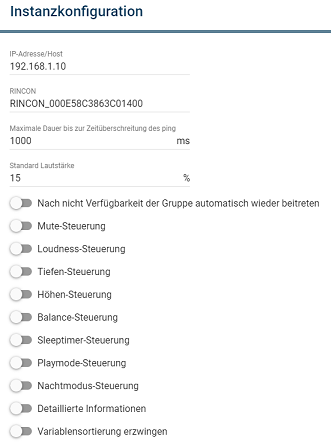
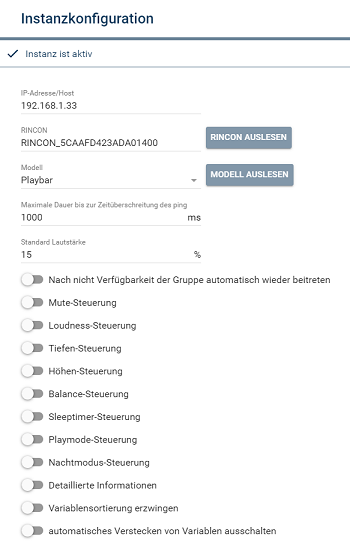
Doku

Changed region(s): [[0.0302, 0.4382, 0.9668, 0.9933], [0.0, 0.0, 1.0, 0.409], [0.5438, 0.3798, 0.574, 0.409]]

diff --git a/README.md b/README.md
@@ -136,37 +136,51 @@ Falls man in Sonos unter "TuneIn Radio" -> "Meine Radiosender" favoriten gepfleg
 Dies ist der Hostname oder die IP-Adresse des Players. Sofern die Insanz aus der Discovery Instanz angelegt wurde, ist dieser Wert automatisch gefüllt.
 2. __RINCON__  
 RINCON ist die eindeutige Bezeichnung eines Lautsprechers. Sofern die Insanz aus der Discovery Instanz angelegt wurde, ist dieser Wert automatisch gefüllt.  
-Wenn die Instanz manuell angelegt wurde und die RINCON nicht bekannt ist, kann der Knopf "RINCON auslesen" (wird eingeblendet, wenn dieses Feld leer ist) verwendet werden, um die RINCON zu ermittelt. Hierfür muss allerdings "IP-Adresse/Host" gefüllt sein.
-3. __Maximale Dauer bis zur Zeitüberschreitung des ping__  
+Wenn die Instanz manuell angelegt wurde und die RINCON nicht bekannt ist, kann der Knopf "RINCON auslesen" verwendet werden, um die RINCON zu ermittelt. Hierfür muss allerdings "IP-Adresse/Host" gefüllt sein.
+3. __Modell__  
+Hier sollte das Modell des Players ausgewählt werden. Sofern die Insanz aus der Discovery Instanz angelegt wurde, ist dieser Wert automatisch gefüllt.  
+Mit dem Knopf "Modell auslesen" kann man diesen Wert aber auch auslesen, wenn "IP-Adresse/Host" mit dem richtigen Wert gefüllt ist.  
+Es ist eine Liste der aktuell bekannten Player in der Drop-Down Liste gepflegt, welche derzeit die folgenden Werte umfasst:
+  - Connect
+  - Connect:Amp
+  - Play:1
+  - Play:3
+  - Play:5
+  - Playbar
+  - Playbase
+  - SYMFONISK
+Wenn ein anderes Modell beim auslesen erkannt wird, wird es automatisch der Liste hinzugefügt. Falls dies der Fall ist, wäre es aber hilfreich, wenn ich dieses Modell genannt bekäme, um es hinzuzufügen.  
+Das Modell hat auswirkungen auf die angeotenen Features. So mann man z.B. die "Nachtmodus-Steuerung" nur für die Modelle "Playbar" und "Playbase" einschalten.
+4. __Maximale Dauer bis zur Zeitüberschreitung des ping__  
 Bevor ein Lautsprecher kontaktiert wird, wird versucht diesen per Ping zu erreichen. Wenn der Lautsprecher diese Zeil lang nicht antwortet, wird er als "nicht erreichbar" erachtet.  
 Wenn der Parameter auf 0 gesetzt wird, wird die Erreichbarkeit nicht überprüft.
-4. __Standard Lautstärke__  
+5. __Standard Lautstärke__  
 Diese Lautstärke wird verwendet, wenn die Funktion SNS_SetDefaultVolume() aufgerufen wird.
-5. Nach nicht Verfügbarkeit der Gruppe automatisch wieder beitreten  
+6. Nach nicht Verfügbarkeit der Gruppe automatisch wieder beitreten  
 Wenn dies Option aktiviert ist wird ein Lautsprecher, der zuvor als "vanished" markiert war, wieder der vor dem verschwinden zugeordneten Gruppe hinzugefügt, solbald er wieder verfügbar ist.
-6. __Mute-Steuerung__  
+7. __Mute-Steuerung__  
 Diese Option legt eine Variable "Mute" an und aktiviert dass diese über SNS_updateStatus() mit dem aktuellen Wert gepflegt wird. Weiterhin taucht dann auch eine Konpf auf dem WebFront auf, über den man dies Steuern kann.
-7. __Loudness-Steuerung__  
+8. __Loudness-Steuerung__  
 Diese Option legt eine Variable "Loudness" an und aktiviert dass diese über SNS_updateStatus() mit dem aktuellen Wert gepflegt wird. Weiterhin taucht dann auch eine Konpf auf dem WebFront auf, über den man dies Steuern kann.
-8. __Tiefen-Steuerung__  
+9. __Tiefen-Steuerung__  
 Diese Option legt eine Variable "Tiefen" an und aktiviert dass diese über SNS_updateStatus() mit dem aktuellen Wert gepflegt wird. Weiterhin taucht dann auch einen Slider auf dem WebFront auf, über den man dies Steuern kann.
-9. __Höhen-Steuerung__  
+10. __Höhen-Steuerung__  
 Diese Option legt eine Variable "Höhen" an und aktiviert dass diese über SNS_updateStatus() mit dem aktuellen Wert gepflegt wird. Weiterhin taucht dann auch einen Slider auf dem WebFront auf, über den man dies Steuern kann.
-10. __Balance-Steuerung__  
+11. __Balance-Steuerung__  
 Diese Option legt eine Variable "Balance" an und aktiviert dass diese über SNS_updateStatus() mit dem aktuellen Wert gepflegt wird. Weiterhin taucht dann auch einen Slider auf dem WebFront auf, über den man dies Steuern kann.
-11. __Sleeptimer-Steuerung__  
+12. __Sleeptimer-Steuerung__  
 Diese Option legt eine Variable "Sleeptimer" an und aktiviert dass diese über SNS_updateStatus() mit dem aktuellen Wert gepflegt wird.
-12. __Playmode-Steuerung__  
+13. __Playmode-Steuerung__  
 Diese Option legt die Variablen "Play Mode" und "Crossfade" an und aktiviert dass diese über SNS_updateStatus() mit dem aktuellen Wert gepflegt wird.  
 Für "Play Mode" tauchen dann 6 Knöpfe und für "Crossfade" "Aus"/"An" auf dem Webfront auf, mit denen diese Funktionen gesteuert werden können.
-13. __Nachtmodus-Steuerung__  
+14. __Nachtmodus-Steuerung__  
 Diese Option legt die Variablen "Nachmodus" und "Dialogverbesserung" an und aktiviert dass diese über SNS_updateStatus() mit dem aktuellen Wert gepflegt wird.  
 Für beide tauchen "Aus"/"An" auf dem Webfront auf, mit denen diese Funktionen gesteuert werden können.
-14. __Detaillierte Informationen__  
+15. __Detaillierte Informationen__  
 Diese Option legt die Variablen "Details", "Cover URL", "Content Stream", "Artist", "Künstler", "Titel", "Album", "Titellänge", "Position" und "Sender ID" an, die über SNS_updateStatus() gefüllt werden.  
 Weiterhin wird ein Medienobjekt "Cover" angelegt, welches mit dem Bild hinter "Cover URL" gefüllt.  
 In der Variablen "Details" wird eine HTMLBox erzeugt, die am WebFront auch zu sehen ist. Alle anderen Variablen werden versteckt.
-15. __Variablensortierung erzwingen__  
+16. __Variablensortierung erzwingen__  
 Wenn diese Option gesetzt ist, wird beim Speichern die vom Modul vorgeschlagene Reihenfolge der Vaiablen wieder hergestellt.
 
 ## 6. Variablen
@@ -363,7 +377,7 @@ SNS_PlayFiles(17265, json_encode( Array( "//ipsymcon.fritz.box/sonos/bla.mp3",
 ```
 - __SNS_PlayFilesGrouping(int $InstanceID, string $instances, string $files, string $volumeChange)__  
 Diese Funktion ruft die Funktion SNS_PlayFiles() auf. Dementsprechend ist das (als JSON encodierte) array $files gleich aufgebaut.  
-Vorher werden die in $instances mitgegebenen Instanzen zu der gruppe von $InstanceID hinzugefügt.  
+Vorher werden die in $instances mitgegebenen Instanzen zu der gruppe von $InstanceID hinzugefügt. Fall eine der Instanzen ein Gruppenkoordinator ist, werden alle Player während der Wiedergabe der Datei(en) aus der Gruppe entfernt.   
 Das (als JSON encodierte) array $instances beinhaltet pro hinzuzufügender instanz einen Eintrag mit dem Key "&lt;instance ID&gt;" der hinzuzufügenden instanz und einem Array mit settings. Diese Array kennt derzeit lediglich einen Eintrag mit dem Key "volume" mit dem Volume Wert entsprechend dem $volumeChange aus der Funktion SNS_PlayFiles.  
 Beispiel:
 ```php
